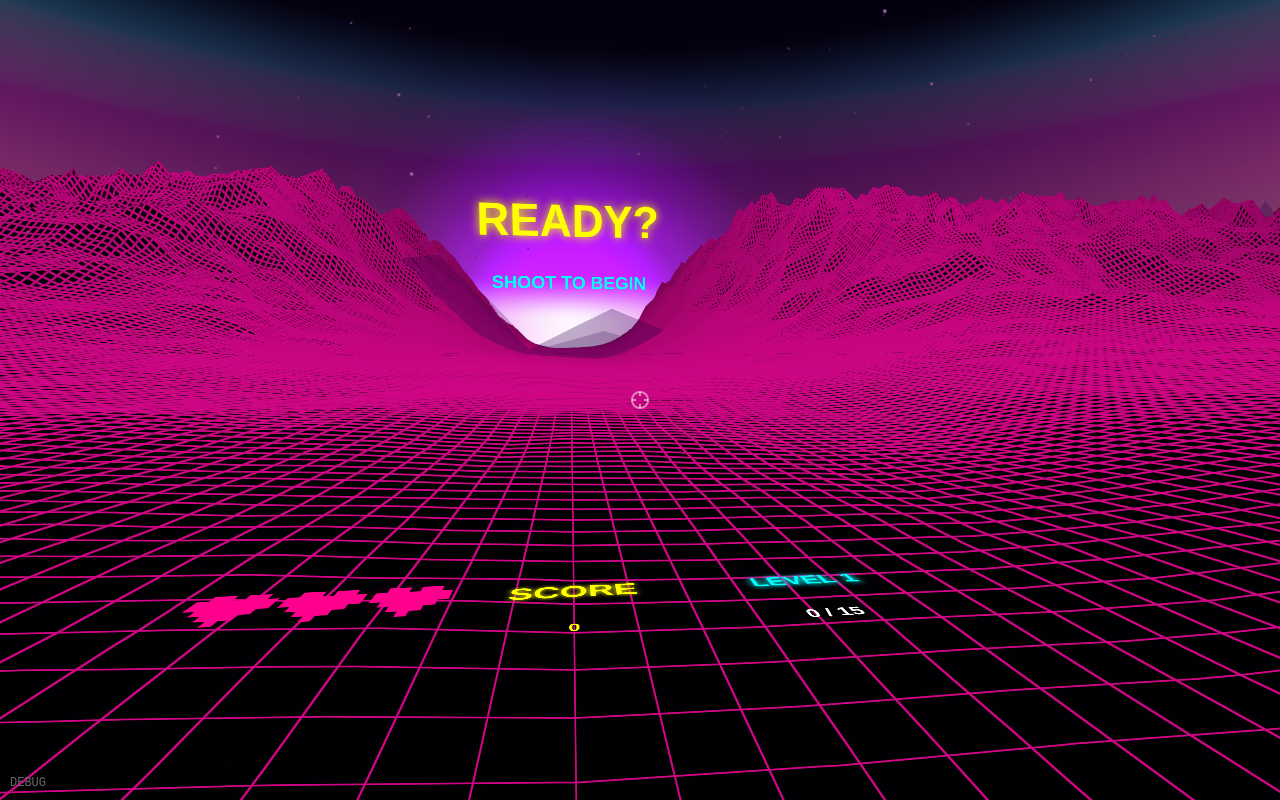
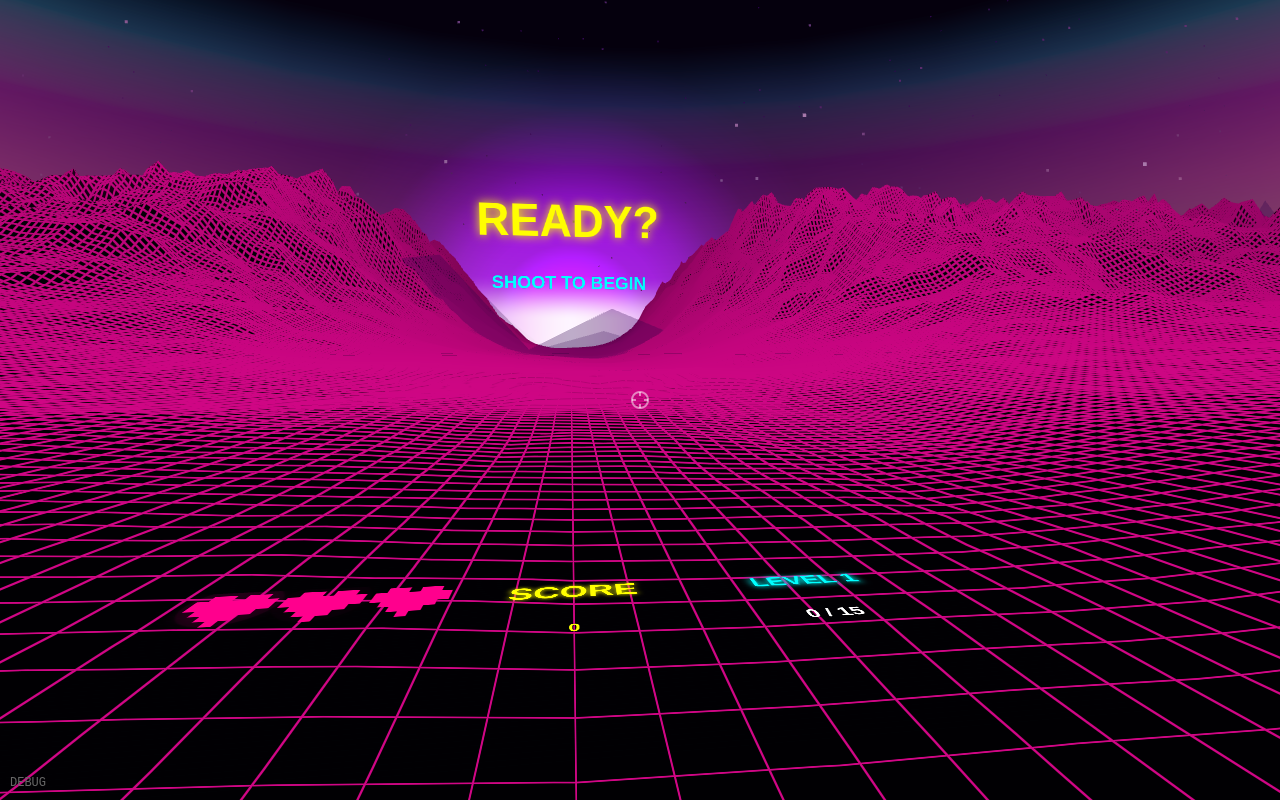
fix: batch 3 direct fixes
1. Sun brightness - smaller core (200), larger outer glow (700), proper render order
2. Voxel size - increased to 0.25x0.25x0.25 for visibility
3. Slow-mo - reduced trigger radius from 3.5 to 1.2 units
4. Floor flash - now flashes gridHelper too, not just floorMaterial
5. Change Country - moved to y=0 to avoid name entry overlap
6. Duplicate boss variable - removed redundant declaration

Changed region(s): [[0.375, 0.2812, 0.5312, 0.375]]

diff --git a/main.js b/main.js
@@ -203,7 +203,7 @@ let slowMoDuration = 0;
 let slowMoSoundPlayed = false;
 let slowMoRampOut = false;       // Ramp timeScale back to 1 over 0.5s when nearby enemies cleared
 let slowMoRampOutTimer = 0;
-const SLOW_MO_TRIGGER_DIST = 3.5;  // Larger radius = more reaction time
+const SLOW_MO_TRIGGER_DIST = 1.2;  // Tight radius = ~0.5-0.75s reaction time for fast enemies
 const SLOW_MO_RAMP_OUT_DURATION = 0.5;
 const SLOW_MO_FACTOR = 0.25;       // Time scale when slow-mo active
 const SLOW_MO_LERP_IN = 8.0;       // Fast lerp in for quick response
@@ -5579,7 +5579,7 @@ function returnProjectileToPool(proj) {
  * Initialize voxel pool for physics-based death explosions
  */
 function initVoxelPool() {
-  const voxelGeo = new THREE.BoxGeometry(0.12, 0.12, 0.12);
+  const voxelGeo = new THREE.BoxGeometry(0.25, 0.25, 0.25);  // Larger voxels for visibility
   
   for (let i = 0; i < VOXEL_POOL_SIZE; i++) {
     const material = new THREE.MeshBasicMaterial({
@@ -7685,17 +7685,39 @@ function render(timestamp) {
   }
 
   // ── Floor damage flash (primary VR hit indicator) ──
-  if (floorFlashing && floorMaterial) {
+  if (floorFlashing) {
     floorFlashTimer -= rawDt;
     if (floorFlashTimer <= 0) {
       floorFlashing = false;
-      floorMaterial.color.copy(floorBaseColor);
+      if (floorMaterial) floorMaterial.color.copy(floorBaseColor);
+      // Reset grid colors
+      if (gridHelper && gridHelper.visible) {
+        const resetGridMat = (m) => { m.color.setHex(NEON_PINK); };
+        if (Array.isArray(gridHelper.material)) {
+          gridHelper.material.forEach(resetGridMat);
+        } else {
+          resetGridMat(gridHelper.material);
+        }
+      }
     } else {
       // Lerp from bright red back to base color over 1 second
       const t = floorFlashTimer / 1.0;  // 1s flash duration
-      // Pure red for maximum visibility across all biomes
       const flashColor = new THREE.Color(0xff0000);
-      floorMaterial.color.lerpColors(floorBaseColor, flashColor, t);
+      if (floorMaterial) {
+        floorMaterial.color.lerpColors(floorBaseColor, flashColor, t);
+      }
+      // Flash grid to red
+      if (gridHelper && gridHelper.visible) {
+        const flashGridMat = (m) => {
+          const baseColor = new THREE.Color(NEON_PINK);
+          m.color.lerpColors(baseColor, flashColor, t);
+        };
+        if (Array.isArray(gridHelper.material)) {
+          gridHelper.material.forEach(flashGridMat);
+        } else {
+          flashGridMat(gridHelper.material);
+        }
+      }
     }
   }
 
@@ -7968,16 +7990,19 @@ function buildSynthwaveValleyScene(group) {
   const sunOuterGlow = new THREE.Sprite(new THREE.SpriteMaterial({ map: sunOuterGlowTex, color: 0xffffff, transparent: true, opacity: 1.0, depthWrite: false, blending: THREE.AdditiveBlending }));
   sunOuterGlow.scale.set(700, 700, 1);
   sunOuterGlow.frustumCulled = false;
+  sunOuterGlow.renderOrder = -3;
   sunGroup.add(sunOuterGlow);
   // Main bright glow
   const sunGlow = new THREE.Sprite(new THREE.SpriteMaterial({ map: sunGlowTex, color: 0xffffff, transparent: true, opacity: 1.0, depthWrite: false, blending: THREE.AdditiveBlending }));
   sunGlow.scale.set(550, 550, 1);
   sunGlow.frustumCulled = false;
+  sunGlow.renderOrder = -2;
   sunGroup.add(sunGlow);
-  // White-hot core
+  // White-hot core - should be visible as a distinct circle
   const sunCore = new THREE.Sprite(new THREE.SpriteMaterial({ map: sunCoreTex, color: 0xffffff, transparent: true, opacity: 1.0, depthWrite: false, blending: THREE.AdditiveBlending }));
-  sunCore.scale.set(300, 300, 1);
+  sunCore.scale.set(200, 200, 1);  // Smaller core for distinct circle
   sunCore.frustumCulled = false;
+  sunCore.renderOrder = -1;
   sunGroup.add(sunCore);
 
   // Horizon glow - EXTREMELY bright to match the massive sun and illuminate the scene

diff --git a/hud.js b/hud.js
@@ -2390,9 +2390,9 @@ export function showNameEntry(score, level, storedName, countryLabel, playerPos)
   countryText.position.set(-0.5, 0.35, 0);  // Below name boxes, left side
   nameEntryGroup.add(countryText);
 
-  // Change country button - moved below name boxes, positioned to the right
+  // Change country button - positioned to the right of keyboard area
   const changeGroup = new THREE.Group();
-  changeGroup.position.set(0.55, 0.52, 0);  // Moved up to create gap from keyboard
+  changeGroup.position.set(0.55, 0.0, 0);  // Aligned with keyboard center
   const changeGeo = new THREE.PlaneGeometry(0.75, 0.22);  // Reduced padding to avoid keyboard overlap
   const changeMat = new THREE.MeshBasicMaterial({
     color: 0x332200, transparent: true, opacity: 0.9, side: THREE.DoubleSide,  // Yellow-tinted background
